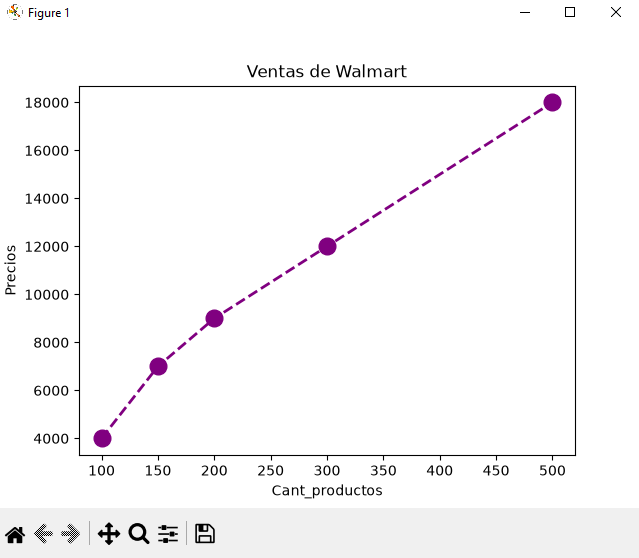
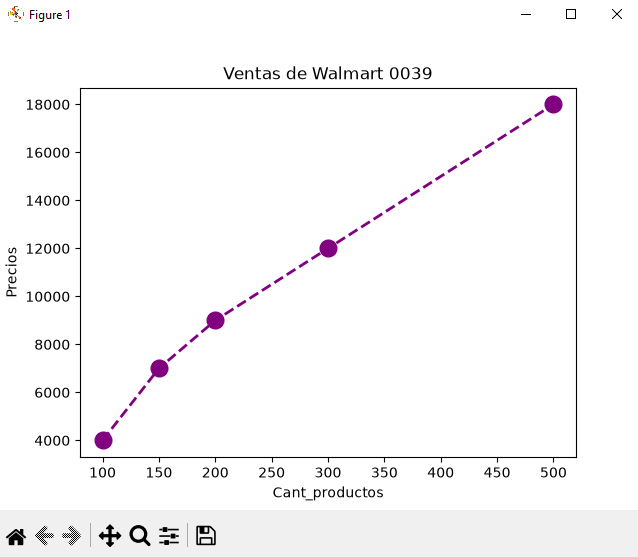
Add files via upload

diff --git a/p6-walmart-va-0039.py b/p6-walmart-va-0039.py
@@ -11,7 +11,7 @@ precio = [4000, 7000, 9000, 12000, 18000]
 
 # Personalizar grafica
 plt.plot(cant_productos, precio, color="purple", marker='o', linestyle='dashed', linewidth=2, markersize=12)
-plt.title("Ventas de Walmart")
+plt.title("Ventas de Walmart 0039")
 plt.xlabel("Cant_productos")
 plt.ylabel("Precios")
 plt.show()
